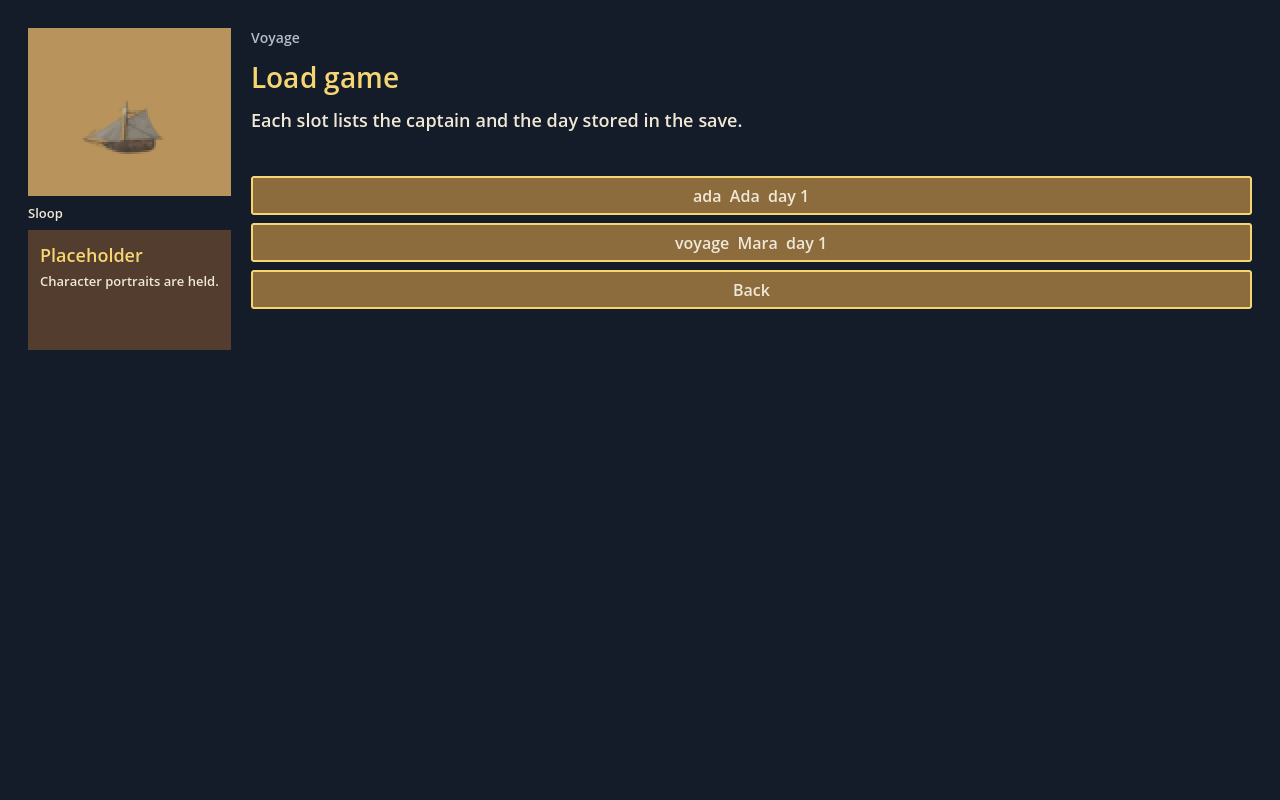
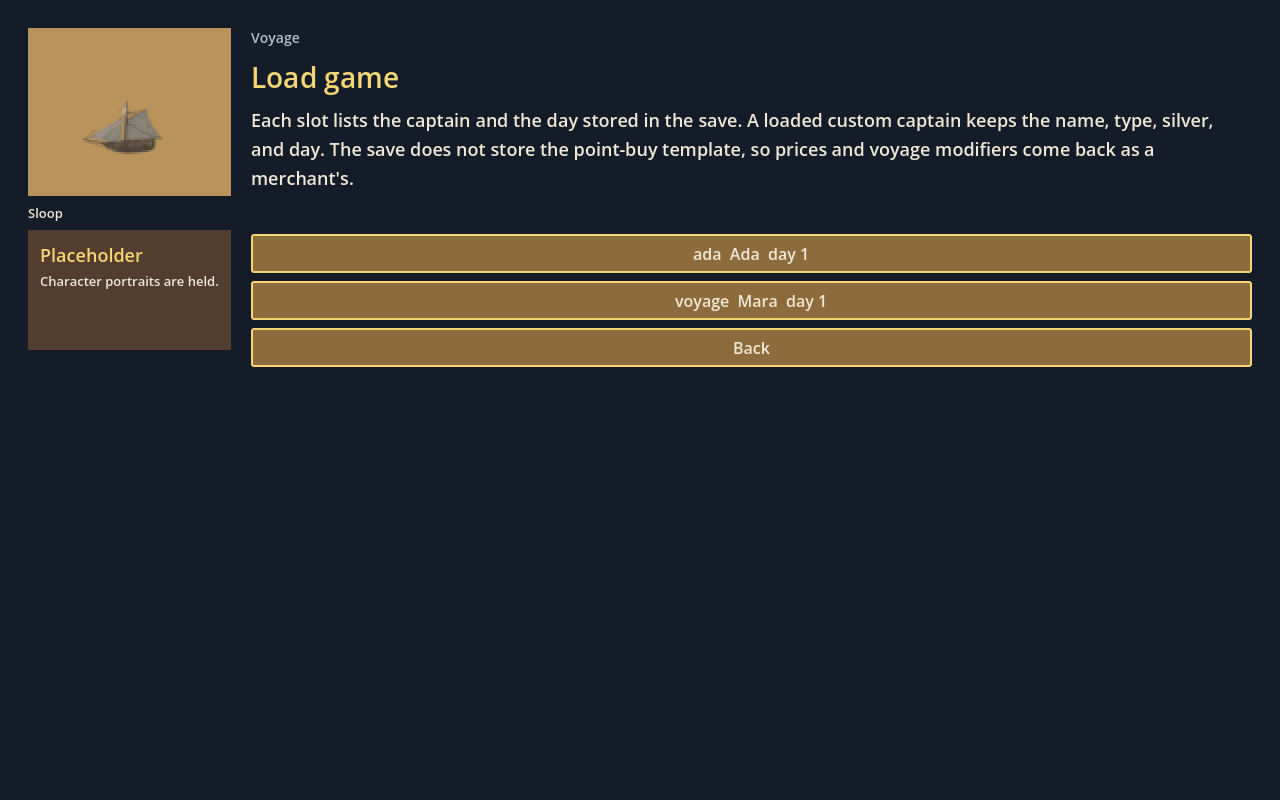
Say that a loaded custom captain comes back as a merchant.
Version 12 does not store the point-buy template. The Load card and the README now say the reload keeps the name, type, silver, and day, and that prices and voyage modifiers return as a merchant's. Ignore interactive saves under /saves/ so a chart save from this checkout is not committed.

Changed region(s): [[0.1875, 0.125, 1.0, 0.4688], [0.4062, 0.1562, 0.4375, 0.1875]]

diff --git a/crates/portlight-godot/src/logic.rs b/crates/portlight-godot/src/logic.rs
@@ -702,7 +702,7 @@ pub(crate) fn newgame_copy(page: NewgamePage) -> (&'static str, &'static str) {
         ),
         NewgamePage::Load => (
             "Load game",
-            "Each slot lists the captain and the day stored in the save.",
+            "Each slot lists the captain and the day stored in the save. A loaded custom captain keeps the name, type, silver, and day. The save does not store the point-buy template, so prices and voyage modifiers come back as a merchant's.",
         ),
         NewgamePage::Saved | NewgamePage::Hidden => ("", ""),
     }
@@ -1277,6 +1277,9 @@ mod tests {
             let (title, card) = newgame_copy(page);
             assert!(title.is_ascii() && card.is_ascii(), "{title} / {card}");
         }
+        assert!(newgame_copy(NewgamePage::Load)
+            .1
+            .contains("come back as a merchant"));
         assert_eq!(save_confirm_title(true), "Game saved.");
         assert!(save_confirm_title(false).is_ascii());
         let row = portlight_sim::save::SaveSlotSummary {

diff --git a/README.md b/README.md
@@ -35,7 +35,7 @@ cargo build -p portlight-godot
 godot --path godot
 ```
 
-The title screen offers New game and Load game. New game lists the nine catalog captains and a custom captain (name, title, the four point pools, home region and port, trade bloc, pirate faction, mentor, and backstory). Catalog games and custom games both call `Session` with seed 1. Merchant named Ada is still the first chart: pick The Merchant and leave the name as Ada. Save sits with New game and Next day and writes a version-12 slot, then shows the slot line. Load lists those slots with the captain and the day. The chart draws the current port's `sail_lanes`, including warning and blocked lanes. Sail, Next day, and the market buttons call `Session`. They do not compute prices, days, or whether a lane is legal. While docked, Market, Hire sailor, Provisions +5, and Work sit on one row. Work calls `Session::work` (3 to 5 silver; markets, provisions, wages, and reputation do not tick). A failure shows `SimError` text. A pending duel offers a stance fight (`thrust`, `slash`, `parry`) or auto-resolve. Next day still calls `Session::advance`, and the sim checks the stances. The outcome's standing change is shown and not applied. A sale logs the receipt and any contract summaries. `Session::board` is the contract board, and deck melee is `Session::resolve_boarding`. The lane list sits in a scroll pane beside the chart so the Sail buttons stay inside the 1280×720 window. The chart panel does not call `board`, `encounter_choice`, `naval_round`, or `resolve_boarding`. The encounter screen does call `encounter_choice`, `naval_round`, `resolve_boarding`, `fight`, `spare`, and `capture` through `Session`.
+The title screen offers New game and Load game. New game lists the nine catalog captains and a custom captain (name, title, the four point pools, home region and port, trade bloc, pirate faction, mentor, and backstory). Catalog games and custom games both call `Session` with seed 1. Merchant named Ada is still the first chart: pick The Merchant and leave the name as Ada. Save sits with New game and Next day and writes a version-12 slot, then shows the slot line. Load lists those slots with the captain and the day. A loaded custom captain keeps the name, the type, the silver, and the day. Version 12 does not store the custom template, so prices and voyage modifiers after load are the merchant's, the same as Python. The chart draws the current port's `sail_lanes`, including warning and blocked lanes. Sail, Next day, and the market buttons call `Session`. They do not compute prices, days, or whether a lane is legal. While docked, Market, Hire sailor, Provisions +5, and Work sit on one row. Work calls `Session::work` (3 to 5 silver; markets, provisions, wages, and reputation do not tick). A failure shows `SimError` text. A pending duel offers a stance fight (`thrust`, `slash`, `parry`) or auto-resolve. Next day still calls `Session::advance`, and the sim checks the stances. The outcome's standing change is shown and not applied. A sale logs the receipt and any contract summaries. `Session::board` is the contract board, and deck melee is `Session::resolve_boarding`. The lane list sits in a scroll pane beside the chart so the Sail buttons stay inside the 1280×720 window. The chart panel does not call `board`, `encounter_choice`, `naval_round`, or `resolve_boarding`. The encounter screen does call `encounter_choice`, `naval_round`, `resolve_boarding`, `fight`, `spare`, and `capture` through `Session`.
 
 Chart water and the port marker are the approved landing plates. The generator still writes the catalog and any future placeholder:
 
@@ -66,7 +66,7 @@ The art-director frame (docked sloop at Porto Novo, Swift Cutter under sail at f
 
 `--encounter-screen` runs the boarding script and then the bounty script, and does not capture unless a directory is requested. Set `PORTLIGHT_ENCOUNTER_DIR` to write the five frames there, or `--art-docs` / `PORTLIGHT_ART_DOCS` to write them under `docs/screenshots`. Headless skips only the implicit `/tmp` default. `PORTLIGHT_SHOT`, `PORTLIGHT_ENCOUNTER_DIR`, `--art-docs`, and `PORTLIGHT_ART_DOCS` still try to save, and the empty viewport exits 1.
 
-`--newgame-screen` starts a custom captain, saves a version-12 slot, lists it, and loads it. It does not capture. The last line is `portlight newgame smoke ok`. `PORTLIGHT_SHOT` or `--art-docs` / `PORTLIGHT_ART_DOCS` writes `newgame-title.png`, `newgame-captains.png`, `newgame-custom.png`, `newgame-load.png`, and `newgame-save.png` (1280×800). `PORTLIGHT_SHOT` names the directory when it is a folder, or the parent of a `.png` path. `--art-docs` writes `docs/screenshots`. An explicit capture under headless exits 1 and prints `portlight newgame smoke FAILED`.
+`--newgame-screen` starts a custom captain, saves a version-12 slot, lists it, and loads it. The reload check is the name, the type, the silver, and the day. It does not capture. The last line is `portlight newgame smoke ok`. `PORTLIGHT_SHOT` or `--art-docs` / `PORTLIGHT_ART_DOCS` writes `newgame-title.png`, `newgame-captains.png`, `newgame-custom.png`, `newgame-load.png`, and `newgame-save.png` (1280×800). `PORTLIGHT_SHOT` names the directory when it is a folder, or the parent of a `.png` path. `--art-docs` writes `docs/screenshots`. An explicit capture under headless exits 1 and prints `portlight newgame smoke FAILED`.
 
 `--encounter-galleon` writes `/tmp/encounter-galleon.png` unless `PORTLIGHT_SHOT` or `--art-docs` names another path, with `royal_man_of_war` in the player plate slot (caption `Man-of-war`) and that template's hull and crew on the card. The encounter frame check follows the capture mode, not the filename, so `PORTLIGHT_SHOT=/tmp/galleon1.png` is still an encounter frame.
 
